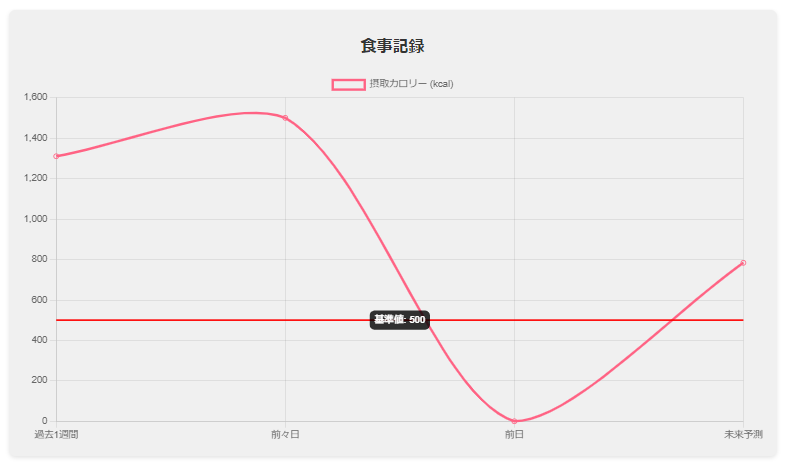
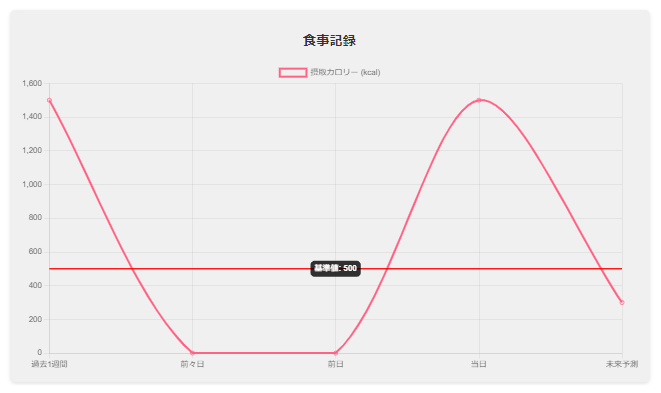
二回目レビュー前！

diff --git a/myapp/templates/main_menu.html b/myapp/templates/main_menu.html
@@ -49,7 +49,7 @@ function createChart(chartId, data, label, borderColor, baseline) {
     new Chart(ctx, {
         type: 'line',
         data: {
-            labels: ['過去1週間', '前々日', '前日', '未来予測'],
+            labels: ['過去1週間', '前々日', '前日', '当日','未来予測'],
             datasets: [{
                 label: label,
                 data: data,
@@ -89,13 +89,14 @@ function createChart(chartId, data, label, borderColor, baseline) {
 </script>
 
 <div class="progress-container">
-    <p>昨日の達成度合い：カロリー摂取: <span id="calorieProgress">{{ food_achievement }}%</span></p>
+    <p>昨日の達成度合い：カロリー摂取: <span id="calorieProgress">{{ food_achievement|floatformat:1 }}%</span></p>
 </div>
 <div class="progress-container">
-    <p>昨日の達成度合い：運動時間: <span id="exerciseProgress">{{ exercise_achievement }}%</span></p>
+    <p>昨日の達成度合い：運動時間: <span id="exerciseProgress">{{ exercise_achievement|floatformat:1 }}%</span></p>
 </div>
 <div class="progress-container">
-    <p>昨日の達成度合い：睡眠時間: <span id="sleepProgress">{{ sleep_achievement }}%</span></p>
+    <p>昨日の達成度合い：睡眠時間: <span id="sleepProgress">{{ sleep_achievement|floatformat:1 }}%</span></p>
 </div>
+
 
 {% endblock %}

diff --git a/myapp/templates/base.html b/myapp/templates/base.html
@@ -10,9 +10,6 @@
 <body>
     <header>
         <nav class="navbar navbar-expand-lg navbar-light bg-light">
-            <button class="navbar-toggler" type="button" data-toggle="collapse" data-target="#navbarNav" aria-controls="navbarNav" aria-expanded="false" aria-label="Toggle navigation">
-                <span class="navbar-toggler-icon"></span>
-            </button>
             <div class="collapse navbar-collapse" id="navbarNav">
                 <ul class="navbar-nav">
                     <li class="nav-item active">

diff --git a/myapp/templates/sleep_record.html b/myapp/templates/sleep_record.html
@@ -65,6 +65,9 @@
             </tbody>
         </table>
 
+        <p class="alert">※記録済みの日付で再度記録した場合、上書きとなります</p>
+
+
         <div class="text-center">
             <a href="{% url 'myapp:main_menu' %}" class="back-link">メインメニューに戻る</a>
         </div>

diff --git a/myapp/templates/exercise_record.html b/myapp/templates/exercise_record.html
@@ -63,6 +63,8 @@
             </tbody>
         </table>
 
+        <p class="alert">※記録済みの日付で再度記録した場合、上書きとなります</p>
+
         <div class="text-center">
             <a href="{% url 'myapp:main_menu' %}" class="back-link">メインメニューに戻る</a>
         </div>

diff --git a/myapp/templates/food_record.html b/myapp/templates/food_record.html
@@ -89,6 +89,8 @@
             </tbody>
         </table>
 
+        <p class="alert">※記録済みの日付で再度記録した場合、上書きとなります</p>
+
         <div class="text-center">
             <a href="{% url 'myapp:main_menu' %}" class="back-link">メインメニューに戻る</a>
         </div>

diff --git a/myapp/views.py b/myapp/views.py
@@ -108,6 +108,7 @@ def main_menu(request):
     four_days_ago = today - timedelta(days=4)
     five_days_ago = today - timedelta(days=5)
     seven_days_ago = today - timedelta(days=7)
+    nine_days_ago = today - timedelta(days=9)
     user_profile, created = UserProfile.objects.get_or_create(user=request.user)
     target_calories = user_profile.target_calories 
     user = CustomUser.objects.get(id=request.user.id)
@@ -119,6 +120,10 @@ def main_menu(request):
 
     target_exercise_minutes = 30  
     target_sleep_hours = 8  
+
+    today_food = FoodRecord.objects.filter(user=request.user, date=today).aggregate(Sum('calories'))
+    today_exercise = ExerciseRecord.objects.filter(user=request.user, date=today).aggregate(Sum('duration'))
+    today_sleep = SleepRecord.objects.filter(user=request.user, date=today).aggregate(Sum('duration'))
 
     yesterday_food = FoodRecord.objects.filter(user=request.user, date=yesterday).aggregate(Sum('calories'))
     yesterday_exercise = ExerciseRecord.objects.filter(user=request.user, date=yesterday).aggregate(Sum('duration'))
@@ -142,9 +147,9 @@ def main_menu(request):
         food_achievement = 0
 
     past_week_records = {
-        'food': FoodRecord.objects.filter(user=request.user, date__gte=seven_days_ago).order_by('date'),
-        'exercise': ExerciseRecord.objects.filter(user=request.user, date__gte=seven_days_ago).order_by('date'),
-        'sleep': SleepRecord.objects.filter(user=request.user, date__gte=seven_days_ago).order_by('date')
+        'food': FoodRecord.objects.filter(user=request.user, date__gte=nine_days_ago, date__lt=two_days_ago).order_by('date'),
+        'exercise': ExerciseRecord.objects.filter(user=request.user, date__gte=nine_days_ago, date__lt=two_days_ago).order_by('date'),
+        'sleep': SleepRecord.objects.filter(user=request.user, date__gte=nine_days_ago, date__lt=two_days_ago).order_by('date')
     }
 
     averages = {
@@ -158,6 +163,12 @@ def main_menu(request):
         'food': past_week_records['food'].filter(date=two_days_ago).aggregate(Sum('calories'))['calories__sum'] or 0,
         'exercise': past_week_records['exercise'].filter(date=two_days_ago).aggregate(Sum('duration'))['duration__sum'] or 0,
         'sleep': past_week_records['sleep'].filter(date=two_days_ago).aggregate(Sum('duration'))['duration__sum'] or 0,
+    }
+
+    today_data = {
+        'food': today_food['calories__sum'] or 0,
+        'exercise': today_exercise['duration__sum'] or 0,
+        'sleep': today_sleep['duration__sum'] or 0,
     }
 
     yesterday_data = {
@@ -220,10 +231,10 @@ def main_menu(request):
 }
 
     chart_data = {
-        'labels': ['過去1週間', '前々日', '前日', '未来予測'],
-        'food_data': [averages['food'], two_days_ago_data['food'], yesterday_data['food'], future_predictions['food']],
-        'exercise_data': [averages['exercise'], two_days_ago_data['exercise'], yesterday_data['exercise'], future_predictions['exercise']],
-        'sleep_data': [averages['sleep'], two_days_ago_data['sleep'], yesterday_data['sleep'], future_predictions['sleep']],
+        'labels': ['過去1週間', '前々日', '前日','当日' '未来予測'],
+        'food_data': [averages['food'], two_days_ago_data['food'], yesterday_data['food'],today_data['food'],  future_predictions['food']],
+        'exercise_data': [averages['exercise'], two_days_ago_data['exercise'], yesterday_data['exercise'],today_data['exercise'],  future_predictions['exercise']],
+        'sleep_data': [averages['sleep'], two_days_ago_data['sleep'], yesterday_data['sleep'], today_data['sleep'],future_predictions['sleep']],
     }    
 
     context = {
@@ -235,10 +246,10 @@ def main_menu(request):
         'exercise_achievement': round(exercise_achievement, 2),
         'sleep_achievement': round(sleep_achievement, 2),
         'chart_data': {
-            'labels': ['過去1週間', '前々日', '前日', '未来予測'],
-            'food_data': [averages['food'], two_days_ago_data['food'], yesterday_data['food'], future_predictions['food']],
-            'exercise_data': [averages['exercise'], two_days_ago_data['exercise'], yesterday_data['exercise'], future_predictions['exercise']],
-            'sleep_data': [averages['sleep'], two_days_ago_data['sleep'], yesterday_data['sleep'], future_predictions['sleep']],
+            'labels': ['過去1週間', '前々日', '前日', '当日','未来予測'],
+            'food_data': [averages['food'], two_days_ago_data['food'], yesterday_data['food'], today_data['food'],future_predictions['food']],
+            'exercise_data': [averages['exercise'], two_days_ago_data['exercise'], yesterday_data['exercise'],today_data['exercise'],future_predictions['exercise']],
+            'sleep_data': [averages['sleep'], two_days_ago_data['sleep'], yesterday_data['sleep'], today_data['sleep'],future_predictions['sleep']],
         }
     }
 
